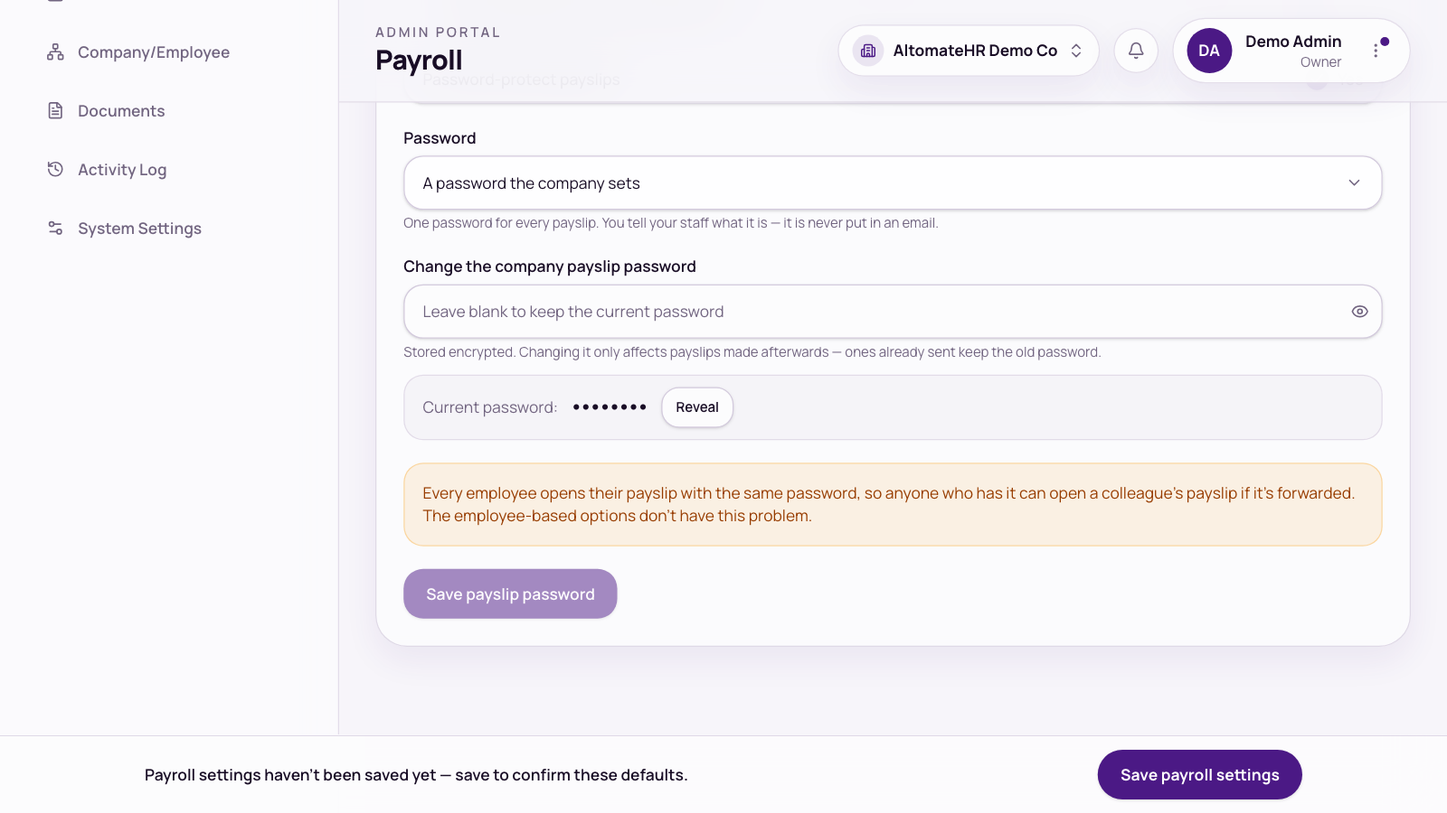
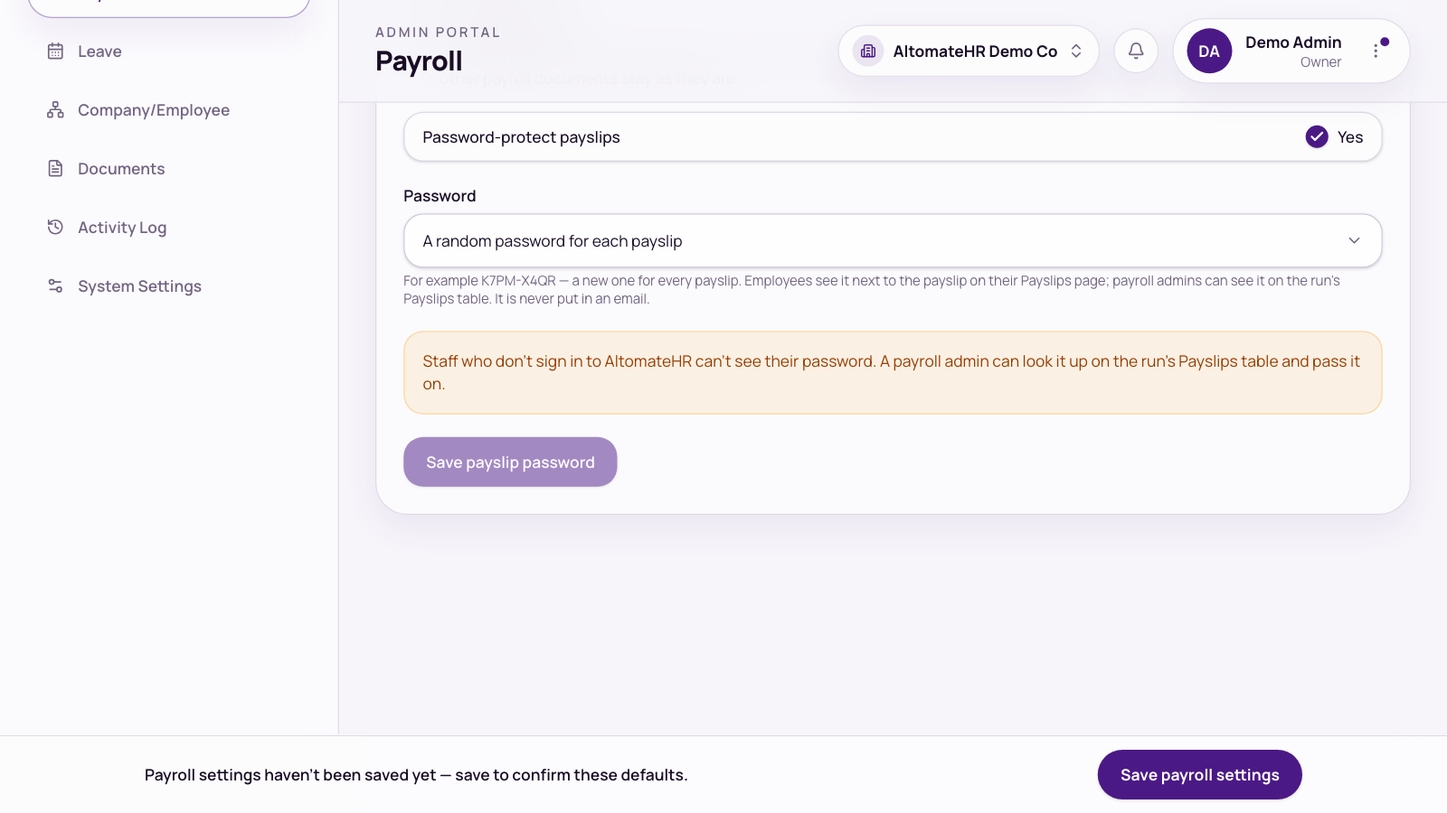
docs: What's new, API docs and user guide for random payslip passwords
- What's new: the random password per payslip, Show/Copy for employees and
  payroll admins, the company-set option removed, and payslips keeping the
  password they were first locked with.
- API docs: RANDOM replaces COMPANY (its fields and the reveal endpoint
  removed); pdfPasswordOnPage / per-payslip pdfPasswordHint on GET
  /payslips; pdfPasswordRule on the payslip object; the two app-only
  pdf-password endpoints.
- User guide: the Payslip password settings tab and the run table's PDF
  password row (admin), the Payslips page note and card row (employee); two
  shots retaken and one new, on the local demo data, with their recipes.
- Bookmarks moved to 0e93e2b7.

diff --git a/api-docs/payroll.html b/api-docs/payroll.html
@@ -481,7 +481,8 @@
               <tr><td><code>epfEmployee</code>, <code>socsoEmployee</code>, <code>eisEmployee</code></td><td>decimal</td><td></td></tr>
               <tr><td><code>pcb</code></td><td>decimal</td><td>Tax actually taken from the employee's pay — includes any Additional PCB and <strong>excludes PCB the company paid for them</strong> (<code>pcbBorneByEmployer</code> on the payslip). Not the same as <code>pcb</code> on the payslip detail, which still contains the borne part.</td></tr>
               <tr><td><code>submittedAt</code></td><td>string?</td><td>ISO timestamp the run went live.</td></tr>
-              <tr><td><code>pdfPasswordHint</code></td><td>string?</td><td>What opens the payslip PDF, e.g. <code>"your date of birth as DDMMYYYY (for example 01011990)"</code>. <code>null</code> when payslip passwords are off. Never the password itself.</td></tr>
+              <tr><td><code>pdfPasswordHint</code></td><td>string?</td><td>What opens the payslip PDF, e.g. <code>"your date of birth as DDMMYYYY (for example 01011990)"</code>. <code>null</code> when payslip passwords are off. Under <code>RANDOM</code> it says the password is shown next to the payslip in the AltomateHR app. Set per payslip: a payslip keeps the rule it was first locked with. Never the password itself.</td></tr>
+              <tr><td><code>pdfPasswordOnPage</code></td><td>boolean</td><td><code>true</code> when this payslip has a random password of its own (<code>RANDOM</code> rule), which the employee reads in the app via <code>GET /payslips/{id}/pdf-password</code> (<a href="#not-for-keys">app-only</a>).</td></tr>
             </tbody>
           </table>
         </div>
@@ -598,6 +599,7 @@
               <tr><td><code>earningLines</code></td><td>object[] or null</td><td>The named lines under Earnings after basic pay and overtime: <code>{ "label": string, "amount": decimal }</code>. Reimbursements and cash allowances are positive; deductions that reduce gross (unpaid leave, an advance) are <strong>negative</strong>. Benefits in kind are not here. <code>null</code> when basic pay + overtime + these lines do not add up to <code>grossPay</code> (e.g. an imported payslip) &mdash; show the totals instead.</td></tr>
               <tr><td><code>deductionLines</code></td><td>object[] or null</td><td>The named non-statutory deductions taken from pay (loan repayment, zakat, CP38, one-off deductions), each <code>{ "label": string, "amount": decimal }</code> with a positive amount. Excludes gross-reducing deductions (in <code>earningLines</code>), cash-neutral ones (in <code>notInPayLines</code>) and Additional PCB (inside the PCB figure). An imported payslip's zakat and CP38 are appended as <code>"Zakat"</code> / <code>"CP38 arrears"</code> lines. <code>null</code> when they do not reconcile to <code>totalDeductions</code>.</td></tr>
               <tr><td><code>notInPayLines</code></td><td>object[]</td><td>Lines shown on the payslip that are not paid in cash: benefits in kind and cash-neutral deductions such as TP1 reliefs. <code>{ "label": string, "amount": decimal }</code>; empty when none.</td></tr>
+              <tr><td><code>pdfPasswordRule</code></td><td>string | null</td><td>The payslip-password rule this payslip was first locked with: <code>IC_DIGITS</code>, <code>IC_LAST6</code>, <code>DOB_DDMMYYYY</code> or <code>RANDOM</code>. <code>null</code> until it is first locked. It is kept even if the company later changes its rule.</td></tr>
             </tbody>
           </table>
         </div>
@@ -899,9 +901,8 @@
               <tr><td><code>autoApplySocsoEisRelief</code></td><td>boolean</td><td></td></tr>
               <tr><td><code>dockApprovedUnpaidLeave</code></td><td>boolean</td><td><code>true</code> (the default) when generating payroll docks unpaid leave approved in the Leave module. <code>false</code> = it doesn't: see the note under <a href="#payroll-settings-put">PUT /payroll/settings</a>.</td></tr>
               <tr><td><code>lockPayslips</code></td><td>boolean</td><td>Read-only here. <code>true</code> when every payslip PDF is password-protected. See <a href="#payslip-password">Payslip password</a>.</td></tr>
-              <tr><td><code>payslipPasswordRule</code></td><td>string</td><td>Read-only here. <code>IC_DIGITS</code>, <code>IC_LAST6</code>, <code>DOB_DDMMYYYY</code> or <code>COMPANY</code>.</td></tr>
+              <tr><td><code>payslipPasswordRule</code></td><td>string</td><td>Read-only here. <code>IC_DIGITS</code>, <code>IC_LAST6</code>, <code>DOB_DDMMYYYY</code> or <code>RANDOM</code> (each payslip has its own password).</td></tr>
               <tr><td><code>payslipPasswordHint</code></td><td>string</td><td>Read-only here. What employees are told the password is, e.g. <code>"your IC number with no dashes (or your passport number)"</code>. Never the password itself.</td></tr>
-              <tr><td><code>hasPayslipCompanyPassword</code></td><td>boolean</td><td>Read-only here. <code>true</code> when a company password is saved (the <code>COMPANY</code> rule). The password is never returned by the API.</td></tr>
               <tr><td><code>syncClaimsToXeroOnSubmit</code>, <code>syncPayrollToXeroOnSubmit</code>, <code>xeroMappingJson</code></td><td></td><td><code>xeroMappingJson</code> is a JSON string whose <code>accounts</code> object is keyed by slot name. The optional <code>taxBorneByEmployer</code> slot ("PCB borne by employer") is the expense account for PCB the company pays for staff; unset, that amount posts to <code>salary</code>. See <a href="payroll-runs.html#xero-preview">Xero journal preview</a>. The same JSON also carries the optional AI-split settings: <code>journalMode</code>, <code>splitPrompt</code> and <code>splitRules</code> (see <a href="#xero-split">AI split of the Xero journal</a>).</td></tr>
               <tr><td><code>payrollBankName</code>, <code>payorAccountHolderName</code>, <code>payorOrganisationCode</code>, <code>ecpPayorAccountNo</code>, <code>ecpPayorBic</code></td><td>string?</td><td>The payor side of the bank file. <code>payorOrganisationCode</code> is used by the Maybank file only (CIMB no longer needs it). <code>ecpPayorAccountNo</code> is the debiting account for the Public Bank, Maybank and OCBC files. <code>payrollBankName</code> decides the bank-file layout; <code>"OCBC Bank (Malaysia) Berhad"</code> gives the OCBC Velocity GIRO TXT (see <a href="payroll-runs.html#doc-bank-file">bank file</a>).</td></tr>
               <tr><td><code>abPayEnabled</code></td><td>boolean</td><td>Read-only. <code>true</code> when the company is connected to ABPay (it has an active API key named &ldquo;ABPay&hellip;&rdquo;), which is what makes <a href="payroll-runs.html#doc-ab-pay-timesheet"><code>GET /payroll/runs/{id}/documents/ab-pay-timesheet</code></a> available. It follows the company's API keys; it is not a saved setting and <code>PUT /payroll/settings</code> ignores it.</td></tr>
@@ -968,8 +969,7 @@
             <thead><tr><th>Field</th><th>Type</th><th>Required</th><th>Limits</th></tr></thead>
             <tbody>
               <tr><td><code>lockPayslips</code></td><td>boolean</td><td>No (default <code>false</code>)</td><td>On or off.</td></tr>
-              <tr><td><code>payslipPasswordRule</code></td><td>string</td><td>Yes (defaults to <code>IC_DIGITS</code> if omitted)</td><td><code>IC_DIGITS</code>: the IC or passport number with no dashes or spaces (letters upper-cased). <code>IC_LAST6</code>: the last 6 characters of that. <code>DOB_DDMMYYYY</code>: the date of birth, e.g. <code>01011990</code>. <code>COMPANY</code>: one password for everyone.</td></tr>
-              <tr><td><code>companyPassword</code></td><td>string?</td><td>No</td><td>Max 64; at least 6 characters when sent. Used by <code>COMPANY</code>. Blank or omitted keeps the saved one.</td></tr>
+              <tr><td><code>payslipPasswordRule</code></td><td>string</td><td>Yes (defaults to <code>IC_DIGITS</code> if omitted)</td><td><code>IC_DIGITS</code>: the IC or passport number with no dashes or spaces (letters upper-cased). <code>IC_LAST6</code>: the last 6 characters of that. <code>DOB_DDMMYYYY</code>: the date of birth, e.g. <code>01011990</code>. <code>RANDOM</code>: a random password of its own for every payslip, e.g. <code>K7PM-X4QR</code> (the dash is part of it).</td></tr>
             </tbody>
           </table>
         </div>
@@ -977,23 +977,20 @@
         <p>The saved settings, the same shape as <a href="#payroll-settings">GET /payroll/settings</a>.</p>
         <h3>Errors</h3>
         <ul>
-          <li><code>400</code> <code>{ "error": "Set the company payslip password before switching it on." }</code> &mdash; <code>COMPANY</code> with <code>lockPayslips: true</code> and no password sent or saved.</li>
-          <li><code>400</code> <code>{ "error": "The payslip password needs at least 6 characters." }</code></li>
-          <li><code>400</code> validation failure (<code>{ "errors": { … } }</code>, see the <a href="index.html#errors">overview</a>) &mdash; for example an unknown rule or a password over 64 characters.</li>
+          <li><code>400</code> validation failure (<code>{ "errors": { … } }</code>, see the <a href="index.html#errors">overview</a>) &mdash; for example an unknown rule (<code>COMPANY</code> is no longer accepted).</li>
           <li><code>403</code> &mdash; missing scope or module.</li>
         </ul>
         <h3>Things that bite</h3>
         <ul>
           <li><strong>When it is on, every payslip PDF the API returns is AES-256 encrypted</strong> and needs the employee's password to open (printing is allowed; editing and copying are not): <a href="payroll-runs.html#doc-payslip">a single payslip</a>, each PDF inside the <a href="payroll-runs.html#doc-payslips">payslips ZIP</a>, the payslips in the <a href="payroll-runs.html#doc-download">documents bundle</a>, <a href="#my-payslip-pdf"><code>GET /payslips/{id}/pdf</code></a>, the draft preview, and the PDF attached to payslip emails. Other documents are unchanged.</li>
           <li><strong>A person the rule has nothing for blocks their payslip.</strong> If an employee has no IC / passport number (or no date of birth for <code>DOB_DDMMYYYY</code>), the request answers <code>409</code> naming them; the payslips ZIP is refused whole. Check <code>idNumber</code> and <code>dateOfBirth</code> on <a href="#employees-list">GET /payroll/employees</a> first.</li>
-          <li>Changing the password does not mark any draft run stale; the password is on the file, not in the figures. The API never returns the company password (see below).</li>
+          <li>Changing the password does not mark any draft run stale; the password is on the file, not in the figures. </li>
+          <li><strong>A payslip keeps the rule it was first locked with.</strong> Changing the company's rule only affects payslips not yet locked; re-running or re-importing a run keeps each person's. The payslip's <code>pdfPasswordRule</code> shows which (<code>null</code> until first locked).</li>
+          <li><strong><code>RANDOM</code>:</strong> a password such as <code>K7PM-X4QR</code> is created the first time that payslip is locked and kept. Every copy (all the locked downloads above) opens with it. A payslip's random password is never returned to an API key; it is shown to the employee, and to payroll admins, in the AltomateHR app.</li>
         </ul>
-        <p>
-          A read-only <code>GET /payroll/settings/payslip-password/reveal</code> exists for the AltomateHR app, which shows the company password to an admin on request. It is marked <code>[HumanOnly]</code> and answers <code>403</code> to any key.
-        </p>
 <pre><code>curl -X PUT https://&lt;api-host&gt;/payroll/settings/payslip-password \
   -H "Authorization: Bearer wp_live_xxx" -H "Content-Type: application/json" \
-  -d '{"lockPayslips":true,"payslipPasswordRule":"COMPANY","companyPassword":"example-pass-123"}'</code></pre>
+  -d '{"lockPayslips":true,"payslipPasswordRule":"RANDOM"}'</code></pre>
       </section>
 
       <section class="endpoint" id="xero-split">
@@ -1531,8 +1528,13 @@
       </section>
     </section>
 
-    <p>
-      Not available to API keys (human-only, omitted above): none in this module — every
+    <p id="not-for-keys">
+      Not available to API keys (<code>[HumanOnly]</code>, so a key gets <code>403</code>):
+      <code>GET /payslips/{id}/pdf-password</code>, which the AltomateHR app uses to show an
+      employee the random password of their own approved payslip (<code>404</code> when that
+      payslip has none), and <code>GET /payroll/runs/{id}/payslips/{employeeProfileId}/pdf-password</code>,
+      which shows a payroll admin the same for one payslip on a run (<code>404</code> when it has none;
+      each look is audited). Both answer <code>{ "password": "K7PM-X4QR" }</code>. Every other
       Payroll action documented here is reachable with a key. (Payroll run generation,
       submission, approval and statutory-file/document downloads are on
       <a href="payroll-runs.html">Payroll runs</a>, a separate page.)

diff --git a/api-docs/payroll-runs.html b/api-docs/payroll-runs.html
@@ -543,6 +543,7 @@ curl -X PATCH https://&lt;api-host&gt;/payroll/runs/run_123 \
             <tr><td><code>earningLines</code></td><td>object[] or null</td><td>The named lines under Earnings after basic pay and overtime: <code>{ "label": string, "amount": number }</code>. Reimbursements and cash allowances are positive; deductions that reduce gross (unpaid leave, an advance) are <strong>negative</strong>. Benefits in kind are not here. <code>null</code> when basic pay + overtime + these lines do not add up to <code>grossPay</code> (e.g. an imported payslip) &mdash; show the totals instead.</td></tr>
             <tr><td><code>deductionLines</code></td><td>object[] or null</td><td>The named non-statutory deductions taken from pay (loan repayment, zakat, CP38, one-off deductions), each <code>{ "label": string, "amount": number }</code> with a positive amount. Excludes gross-reducing deductions (in <code>earningLines</code>), cash-neutral ones (in <code>notInPayLines</code>) and Additional PCB (inside the PCB figure). An imported payslip's zakat and CP38 are appended as <code>"Zakat"</code> / <code>"CP38 arrears"</code> lines. <code>null</code> when they do not reconcile to <code>totalDeductions</code>.</td></tr>
             <tr><td><code>notInPayLines</code></td><td>object[]</td><td>Lines shown on the payslip that are not paid in cash: benefits in kind and cash-neutral deductions such as TP1 reliefs. <code>{ "label": string, "amount": number }</code>; empty when none.</td></tr>
+            <tr><td><code>pdfPasswordRule</code></td><td>string | null</td><td>The payslip-password rule this payslip was first locked with: <code>IC_DIGITS</code>, <code>IC_LAST6</code>, <code>DOB_DDMMYYYY</code> or <code>RANDOM</code>. <code>null</code> until it is first locked. It is kept even if the company later changes its rule.</td></tr>
             <tr><td><code>lineItems[].subjectToEpf</code> / <code>.subjectToSocso</code> / <code>.subjectToEis</code> / <code>.subjectToPcb</code></td><td>boolean</td><td>Which wage bases this line fed, as the category defines it.</td></tr>
           </tbody>
         </table>
@@ -1517,7 +1518,7 @@ curl -X PATCH https://&lt;api-host&gt;/payroll/runs/run_123 \
         <ul>
           <li><code>404</code> — no such run.</li>
           <li><code>409</code> <code>{ "error": "That employee has no payslip on this run." }</code> — not generated yet, or not a member of this run.</li>
-          <li><code>409</code> <code>{ "error": "Payslips are password-protected with each employee's IC / passport number, and Jane Tan has none. Add it to their profile, then try again." }</code> &mdash; payslip passwords are on and this employee lacks the field the rule needs (<code>date of birth</code> for <code>DOB_DDMMYYYY</code>). A <code>COMPANY</code> rule whose password can't be read is a <code>409</code> too.</li>
+          <li><code>409</code> <code>{ "error": "Payslips are password-protected with each employee's IC / passport number, and Jane Tan has none. Add it to their profile, then try again." }</code> &mdash; payslip passwords are on and this employee lacks the field the rule needs (<code>date of birth</code> for <code>DOB_DDMMYYYY</code>). A <code>RANDOM</code> payslip whose password can't be read on the server is a <code>409</code> too.</li>
         </ul>
 <pre><code>curl https://&lt;api-host&gt;/payroll/runs/run_123/documents/payslip/emp_123 \
   -H "Authorization: Bearer wp_live_xxx" -o payslip.pdf</code></pre>
@@ -1529,7 +1530,7 @@ curl -X PATCH https://&lt;api-host&gt;/payroll/runs/run_123 \
           <span class="path">/payroll/runs/{id}/documents/payslips</span>
           <span class="tag scope">payroll:read</span>
         </div>
-        <p>Every payslip on the run, as a ZIP of individual PDFs (one per employee) — finance teams forward them one at a time. When <a href="payroll.html#payslip-password">payslip passwords</a> are on, each PDF in the ZIP is locked with its own employee's password.</p>
+        <p>Every payslip on the run, as a ZIP of individual PDFs (one per employee) — finance teams forward them one at a time. When <a href="payroll.html#payslip-password">payslip passwords</a> are on, each PDF in the ZIP is locked with its own employee's password (under <code>RANDOM</code>, that payslip's own random password).</p>
         <h3>Response <code>200</code></h3>
         <p><code>Content-Type: application/zip</code>, filename <code>Payslips_{yyyy}_{mm}_All.zip</code>.</p>
         <h3>Errors</h3>
@@ -2117,8 +2118,10 @@ curl "https://&lt;api-host&gt;/payroll/runs/run_123/documents/bank-file?paymentD
     <section class="section">
       <h2>Not available to API keys</h2>
       <p>
-        Every action on <code>PayrollRunsController</code> is reachable with a scoped API key — none are
-        marked <code>[HumanOnly]</code>. All of them also require the <strong>Payroll</strong> module on
+        <code>GET /payroll/runs/{id}/payslips/{employeeProfileId}/pdf-password</code> is
+        <code>[HumanOnly]</code>: it shows a payroll admin one payslip's random password (<code>{ "password": "K7PM-X4QR" }</code>,
+        <code>404</code> when the payslip has none, audited), and answers <code>403</code> to any key
+        even though it carries <code>payroll:read</code>. Every other action on <code>PayrollRunsController</code> is reachable with a scoped API key. All of them also require the <strong>Payroll</strong> module on
         the org's plan.
       </p>
     </section>

diff --git a/user-guide/altomatehr-admin-guide.html b/user-guide/altomatehr-admin-guide.html
@@ -7,7 +7,7 @@
   Bookmark: this page is correct as of this commit on main. The next update
   re-checks every user-visible change after it — from any branch — then
   moves it forward.
-  user-guide-covered-up-to: 5328b6c
+  user-guide-covered-up-to: 0e93e2b
 -->
 <html lang="en">
 <head>
@@ -797,15 +797,18 @@
       <li>Switch on <strong>Password-protect payslips</strong>.</li>
       <li>Under <strong>Password</strong>, choose what opens the payslip: <em>Employee's IC number, digits only</em>,
         <em>Last 6 digits of employee's IC</em>, <em>Employee's date of birth (DDMMYYYY)</em> or
-        <em>A password the company sets</em>.</li>
-      <li>For the company password, type it (at least 6 characters). Once saved it shows masked; press
-        <span class="btn-name">Reveal</span> to see it (only admins allowed to change settings can). Leave the field blank to keep the current one.</li>
+        <em>A random password for each payslip</em>.</li>
+      <li>With the random option, every payslip gets its own password, like <em>K7PM-X4QR</em> (the dash is part of it).
+        Every copy of that payslip — the download, the email attachment, the ZIP — opens with the same password.
+        A note under the option says staff who don't sign in to AltomateHR can't see their password, and that a payroll
+        admin can look it up on the run's Payslips table.</li>
       <li>Press <span class="btn-name">Save payslip password</span>. This tab saves on its own button, not the bar at the bottom.</li>
     </ol>
     <div class="note warn"><span class="nt">Check before you switch it on</span>
-      <p>With the company password, everyone shares one password, and a warning on the tab says so. With an IC or date of
-        birth rule, the tab lists anyone who is missing that detail: their payslips won't download or email until you add it.
-        Changing the password or rule only affects payslips made afterwards; ones already sent keep the old password.</p>
+      <p>With an IC or date of birth rule, the tab lists anyone who is missing that detail: their payslips won't download
+        or email until you add it. The random option needs nothing from the employee. A payslip keeps the password it was
+        first locked with: changing the option later, or running the month again, doesn't change payslips already
+        handed out.</p>
     </div>
     <h3>Credentials</h3>
     <p>Store your KWSP i-Akaun, PERKESO ASSIST and LHDN e-PCB logins so whoever runs payroll has them. They're
@@ -873,7 +876,7 @@
           <p class="shot-cap">Form E (LHDN)</p>
         </div>
         <div class="shot-item">
-          <img src="shots/admin/payroll-settings-payslip-password.png" alt="Payroll → Settings → Payslip password: the company password option, the masked current password with a Reveal button, the shared-password warning and Save payslip password" loading="lazy">
+          <img src="shots/admin/payroll-settings-payslip-password.png" alt="Payroll → Settings → Payslip password: the random password option, its example and note, and Save payslip password" loading="lazy">
           <p class="shot-cap">Payslip password</p>
         </div>
       </div>
@@ -1887,6 +1890,10 @@
           <img src="shots/admin/payroll-payslips-search.png" alt="A run's Payslips list narrowed by the search box to one person, with the Total row still showing all 9 employees" loading="lazy">
           <p class="shot-cap">Searching a run's payslips</p>
         </div>
+        <div class="shot-item">
+          <img src="shots/admin/payroll-payslip-password-row.png" alt="A payslip row in a run's Payslips table with the PDF password line, showing the password with Hide and Copy buttons" loading="lazy">
+          <p class="shot-cap">A payslip's own password</p>
+        </div>
       </div>
       <p class="shot-cap shot-cap-main">A payroll run</p>
     </figure>
@@ -2147,6 +2154,11 @@
     <p>When <a href="#payroll-settings">payslip passwords</a> are on, a note above the Payslips table says what the PDFs
       open with. If a payslip can't be produced — for example the employee has no IC or date of birth on file for the
       rule you chose — the download shows an error on that person's row.</p>
+    <p>Under the random password option, each row in the Payslips table has a line
+      <em>PDF password ••••-••••</em> with <span class="btn-name">Show</span> and, once shown,
+      <span class="btn-name">Copy</span> (<span class="btn-name">Hide</span> hides it again). Use it to pass a password to
+      someone who doesn't sign in to AltomateHR. The password is only fetched when you press <span class="btn-name">Show</span>,
+      and each look is recorded in the activity log.</p>
     
     <figure class="shot" data-place="Files">
       <div class="shot-grid" data-orient="screen">

diff --git a/user-guide/altomatehr-employee-guide.html b/user-guide/altomatehr-employee-guide.html
@@ -7,7 +7,7 @@
   Bookmark: this page is correct as of this commit on main. The next update
   re-checks every user-visible change after it — from any branch — then
   moves it forward.
-  user-guide-covered-up-to: 5328b6c
+  user-guide-covered-up-to: 0e93e2b
 -->
 <html lang="en">
 <head>
@@ -924,10 +924,12 @@
       <li><span class="btn-name">TP1</span> — download your Borang PCB/TP1, the tax reliefs you've claimed for that month.</li>
       <li>Your latest payslip is also on the Dashboard. Your company may email it to you as well.</li>
       <li><strong>Password-protected PDFs</strong> — if your company has turned this on, a note above your payslips says the
-        PDFs are password-protected and what opens them, for example <em>your IC number with no dashes</em> or
-        <em>the payslip password your company gave you</em>. The payslip email says the same. Neither ever shows the password
-        itself. Your company tells you the password if it's one it set; ask HR if you don't have it. This applies to every
-        payslip PDF you download.</li>
+        PDFs are password-protected and what opens them, for example <em>your IC number with no dashes</em>. The payslip
+        email says where to find it, and never contains the password itself. This applies to every payslip PDF you download.
+        If your company gives each payslip its own password, the note says so: press <span class="btn-name">Show</span>
+        next to a payslip. Each payslip card has a <em>PDF password</em> row with <span class="btn-name">Show</span>, and once
+        shown, <span class="btn-name">Copy</span> and <span class="btn-name">Hide</span>. The password looks like
+        <em>K7PM-X4QR</em>, dash included. A payslip made earlier and locked another way says on its card what opens it.</li>
     </ul>
     <p><strong>Form EA.</strong> Above your payslips and year tabs, a <strong>Form EA</strong> card has one row for each year you were
       paid in — your yearly statement of pay, for filing your income tax return. When every month of that year's payroll
@@ -948,7 +950,7 @@
           <p class="shot-cap">Deductions listed by name</p>
         </div>
         <div class="shot-item">
-          <img src="shots/employee/payslips-password-note.png" alt="The Payslips tab with a note above the list: Payslip PDFs are password-protected, open them with the payslip password your company gave you" loading="lazy">
+          <img src="shots/employee/payslips-password-note.png" alt="The Payslips tab with a note that each payslip has its own password, and a payslip card with its PDF password row" loading="lazy">
           <p class="shot-cap">Password note</p>
         </div>
       </div>

diff --git a/frontend/src/features/whats-new/lib/entries.ts b/frontend/src/features/whats-new/lib/entries.ts
@@ -8,7 +8,7 @@
 //
 // Bookmark: the last commit on main these notes already cover. The next update
 // writes up everything after it — from any branch — then moves it forward.
-// whats-new-covered-up-to: 5328b6c
+// whats-new-covered-up-to: 0e93e2b7
 
 // A line is for everyone, or — wrapped in admins(…) — for admins and owners
 // only. Employees and supervisors never see an admins line, so it doesn't
@@ -28,6 +28,20 @@ export type WhatsNewEntry = {
 };
 
 export const WHATS_NEW: WhatsNewEntry[] = [
+  {
+    date: "2026-11-24",
+    title: "Random payslip passwords",
+    new: [
+      admins("In Payroll → Settings → Payslip password, you can now choose \"A random password for each payslip\". Each payslip gets its own, like K7PM-X4QR, the same on every copy."),
+      admins("Payslips already locked keep their password. Any other payslip gets one the first time it's downloaded or emailed, earlier months included."),
+      admins("On a payroll run's Payslips table, press Show on a row to see that person's password, then Copy. Each look is recorded in the activity log."),
+      "If your company uses random passwords, each payslip on your Payslips page shows its PDF password. Press Show, then Copy. The payslip email never includes it.",
+    ],
+    improved: [
+      admins("The \"A password the company sets\" option is gone, as one shared password let anyone open a forwarded payslip. If you used it, choose another option."),
+      admins("A payslip keeps the password it was first locked with. Re-running a month or changing the option later won't change payslips already handed out."),
+    ],
+  },
   {
     date: "2026-11-23",
     title: "Unpaid leave from your timesheet, and employer EPF in commission months",

diff --git a/api-docs/index.html b/api-docs/index.html
@@ -25,7 +25,7 @@
   Bookmark: the pages that exist are correct as of this commit on main. The
   next update re-checks every controller/DTO changed after it — from any
   branch — then moves it forward.
-  api-docs-covered-up-to: 5328b6c
+  api-docs-covered-up-to: 0e93e2b7
 -->
 <div class="layout">
   <nav class="sidebar" aria-label="Documentation">
